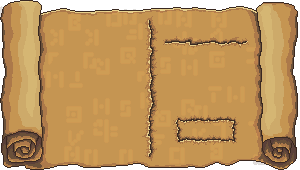
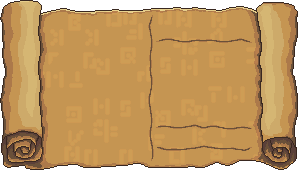
Updated menu images. Implemented dungeon menu prototype. Marked classes as deprecated. Implemented new Text class for GUI.

Changed region(s): [[0.48, 0.0882, 0.84, 0.9412], [0.84, 0.9412, 0.9, 0.9706], [0.0, 0.0294, 0.03, 0.0882]]

diff --git a/Villeon/Villeon/GUI/DungeonMenu.cs b/Villeon/Villeon/GUI/DungeonMenu.cs
@@ -21,10 +21,10 @@ namespace Villeon.GUI
 
             // Load Sprites
             Sprite backgroundScrollSprite = Assets.GetSprite("GUI.Scroll_Dungeonmenu.png", Render.SpriteLayer.ScreenGuiBackground, false);
-            Sprite horizontalLine1Sprite = Assets.GetSprite("GUI.Scroll_Line_Horizontal_1.png", Render.SpriteLayer.ScreenGuiMiddleground, false);
-            Sprite horizontalLine2Sprite = Assets.GetSprite("GUI.Scroll_Line_Horizontal_2.png", Render.SpriteLayer.ScreenGuiMiddleground, false);
-            Sprite horizontalLine3Sprite = Assets.GetSprite("GUI.Scroll_Line_Horizontal_3.png", Render.SpriteLayer.ScreenGuiMiddleground, false);
-            Sprite verticalLineSprite = Assets.GetSprite("GUI.Scroll_Line_Vertical.png", Render.SpriteLayer.ScreenGuiMiddleground, false);
+            Sprite horizontalLine1Sprite = Assets.GetSprite("GUI.Scroll_Horizontal_Line_1.png", Render.SpriteLayer.ScreenGuiMiddleground, false);
+            Sprite horizontalLine2Sprite = Assets.GetSprite("GUI.Scroll_Horizontal_Line_2.png", Render.SpriteLayer.ScreenGuiMiddleground, false);
+            Sprite horizontalLine3Sprite = Assets.GetSprite("GUI.Scroll_Horizontal_Line_3.png", Render.SpriteLayer.ScreenGuiMiddleground, false);
+            Sprite verticalLineSprite = Assets.GetSprite("GUI.Scroll_Vertical_Line_1.png", Render.SpriteLayer.ScreenGuiMiddleground, false);
 
             // Background
             Entity backgroundImage = new Entity(new Transform(new Vector2(-0.755f, -0.6f), 0.04f, 0f), "BackgroundImage");
@@ -32,13 +32,13 @@ namespace Villeon.GUI
             _entities.Add(backgroundImage);
 
             // Horizontal Lines
-            Entity hLine1 = new Entity(new Transform(new Vector2(-0.5f, 0.49f), 0.04f, 0f), "Horizontal Line 1");
+            Entity hLine1 = new Entity(new Transform(new Vector2(-0.5f, 0.53f), 0.04f, 0f), "Horizontal Line 1");
             hLine1.AddComponent(horizontalLine1Sprite);
-            Entity hLine2 = new Entity(new Transform(new Vector2(-0.5f, 0.24f), 0.04f, 0f), "Horizontal Line 2");
+            Entity hLine2 = new Entity(new Transform(new Vector2(-0.5f, 0.30f), 0.04f, 0f), "Horizontal Line 2");
             hLine2.AddComponent(horizontalLine2Sprite);
-            Entity hLine3 = new Entity(new Transform(new Vector2(-0.5f, -0.01f), 0.04f, 0f), "Horizontal Line 3");
+            Entity hLine3 = new Entity(new Transform(new Vector2(-0.5f, 0.07f), 0.04f, 0f), "Horizontal Line 3");
             hLine3.AddComponent(horizontalLine3Sprite);
-            Entity hLine4 = new Entity(new Transform(new Vector2(-0.5f, -0.26f), 0.04f, 0f), "Horizontal Line 4");
+            Entity hLine4 = new Entity(new Transform(new Vector2(-0.5f, -0.16f), 0.04f, 0f), "Horizontal Line 4");
             hLine4.AddComponent(horizontalLine2Sprite);
 
             _entities.Add(hLine1);
@@ -46,19 +46,36 @@ namespace Villeon.GUI
             _entities.Add(hLine3);
             _entities.Add(hLine4);
 
-            // Text
-            float letterSpacing = 1f;
-            float lineSpacing = 2.5f;
-            TextBox caveSelect = new TextBox("Cave", new Vector2(-0.48f, 0.61f), false, true, letterSpacing, lineSpacing, 0.06f);
-            TextBox castleSelect = new TextBox("Castle", new Vector2(-0.48f, 0.36f), false, true, letterSpacing, lineSpacing, 0.06f);
-            TextBox swampSelect = new TextBox("Swamp", new Vector2(-0.48f, 0.12f), false, true, letterSpacing, lineSpacing, 0.06f);
-            TextBox mushroomsSelect = new TextBox("Mushrooms", new Vector2(-0.48f, -0.13f), false, true, letterSpacing, lineSpacing, 0.06f);
+            // Text - Overview
+            Text caveTitle = new Text("Crumbly Cave", new Vector2(-0.48f, 0.61f), 0.9f, 1.1f, 0.04f);
+            Array.ForEach(caveTitle.GetEntities(), entity => _entities.Add(entity));
+            Text darkLair = new Text("Darkend Lair", new Vector2(-0.48f, 0.38f), 0.9f, 1.1f, 0.04f);
+            Array.ForEach(darkLair.GetEntities(), entity => _entities.Add(entity));
+            Text swampyGrot = new Text("Swampy Grot", new Vector2(-0.48f, 0.15f), 0.9f, 1.1f, 0.04f);
+            Array.ForEach(swampyGrot.GetEntities(), entity => _entities.Add(entity));
+            Text hellishHole = new Text("Hellish Hole", new Vector2(-0.48f, -0.08f), 0.8f, 1.1f, 0.04f);
+            Array.ForEach(hellishHole.GetEntities(), entity => _entities.Add(entity));
 
-            // Info
-            TextBox caveText = new TextBox("Cave", new Vector2(0.2f, 0.61f), false, true, letterSpacing, lineSpacing, 0.06f);
-            TextBox caveDescription = new TextBox("A dark and spooky\nCave in the woods.\nYou will probably\nfind some slimes\nin there.", new Vector2(0.05f, 0.4f), false, true, letterSpacing, lineSpacing, 0.04f);
+            // Text - Selection
+            Text caveTitleSelection = new Text("Crumbly Cave", new Vector2(0.05f, 0.61f), 0.9f, 1.1f, 0.04f);
+            Array.ForEach(caveTitleSelection.GetEntities(), entity => _entities.Add(entity));
 
-            TextBox goText = new TextBox("Explore", new Vector2(0.188f, -0.28f), false, true, letterSpacing, lineSpacing, 0.04f);
+            // Text - Description
+            String desciption = "This cave is located in\n" +
+                                "the nearby woods. The\n" +
+                                "entrance is often buried\n" +
+                                "under a pile of gravel.\n" +
+                                "The villagers themselves\n" +
+                                "even dont know where this\n" +
+                                "is coming from. Due to the\n" +
+                                "lack of name ideas - It is\n" +
+                                "now called 'Crumbly Cave'.";
+            Text caveDescription = new Text(desciption, new Vector2(0.05f, 0.4f), 0.9f, 3f, 0.02f, -0.005f);
+            Array.ForEach(caveDescription.GetEntities(), entity => _entities.Add(entity));
+
+            // Text - Explore
+            Text explore = new Text("Go exploring", new Vector2(0.1f, -0.35f), 0.9f, 3f, 0.03f);
+            Array.ForEach(explore.GetEntities(), entity => _entities.Add(entity));
         }
 
         public IEntity[] GetEntities()

diff --git a/Villeon/Villeon/GUI/Text.cs b/Villeon/Villeon/GUI/Text.cs
@@ -7,50 +7,77 @@ using OpenTK.Mathematics;
 using Villeon.Components;
 using Villeon.ECS;
 using Villeon.Helper;
+using Villeon.Render;
 
 namespace Villeon.GUI
 {
     public class Text
     {
-        private static SpriteSheet _fontSheet = Assets.GetSpriteSheet("HenksFont.png");
-        private static Dictionary<IEntity, List<IEntity>> _textEntities = new Dictionary<IEntity, List<IEntity>>();
+        private List<Entity> _letters;
 
-        public static void Write(IEntity entity, string text, Vector2 offset, float scale)
+        // Text settings
+        private string _text;
+        private Vector2 _position;
+        private float _letterSpacing;
+        private float _lineSpacing;
+        private float _letterScale;
+        private float _shadowHeight;
+
+        public Text(string text, Vector2 position, float letterSpacing = 1.1f, float lineSpacing = 1.1f, float letterScale = 1f, float shadowHeight = -0.01f)
         {
-            // Add the entity wich holds the text entities
-            _textEntities.Add(entity, new List<IEntity>());
+            _letters = new List<Entity>();
 
-            // Add each letters to the list
-            Transform transform = entity.GetComponent<Transform>();
-            Vector2 textPosition = transform.Position + offset;
-            foreach (char c in text.ToCharArray())
+            _text = text;
+            _position = position;
+            _letterSpacing = letterSpacing * letterScale;
+            _lineSpacing = lineSpacing * letterScale;
+            _letterScale = letterScale;
+            _shadowHeight = shadowHeight;
+
+            CreateLetters();
+        }
+
+        public Entity[] GetEntities()
+        {
+            return _letters.ToArray();
+        }
+
+        private void CreateLetters()
+        {
+            SpriteSheet fontSheet = Assets.GetSpriteSheet("Fonts.VilleonFont.png");
+            Sprite letterSprite;
+
+            Vector2 letterPosition = _position;
+
+            foreach (char c in _text)
             {
+                // Move to next line '\n'
                 if (c == '\n')
                 {
-                    textPosition.Y += -1.1f * scale;
-                    textPosition.X = 0f;
+                    letterPosition.X = _position.X;
+                    letterPosition.Y -= _lineSpacing;
                     continue;
                 }
 
-                //Transform trans = new Transform(transform.Position, transform.Scale, transform.Degrees);
-                IEntity letter = new Entity(transform, c.ToString());
+                letterSprite = fontSheet.GetSprite(c - ' ', SpriteLayer.ScreenGuiForeground, false);
 
-                letter.AddComponent(_fontSheet.GetSprite(c - ' ', Render.SpriteLayer.Foreground, true));
-                _textEntities[entity].Add(letter);
-                Manager.GetInstance().AddEntity(letter);
+                // Create shadow Entity
+                Entity shadowEntity = new Entity(new Transform(letterPosition + new Vector2(0f, _shadowHeight), _letterScale, 0f), "TBX[" + c + "]");
+                Sprite letterShadowSpriteCopy = new Sprite(letterSprite);
+                letterShadowSpriteCopy.Color = Color4.Black;
+                shadowEntity.AddComponent(letterShadowSpriteCopy);
+                _letters.Add(shadowEntity);
 
-                textPosition.X += 1.1f * scale;
+                // Create Entity for letter
+                Entity letterEntity = new Entity(new Transform(letterPosition, _letterScale, 0f), "TBX[" + c + "]");
+                Sprite letterSpriteCopy = new Sprite(letterSprite);
+                letterSpriteCopy.Color = Color4.White;
+                letterEntity.AddComponent(letterSpriteCopy);
+                _letters.Add(letterEntity);
+
+                // Set position for next letter
+                letterPosition.X += _letterSpacing;
             }
-        }
-
-        public void Overwrite(IEntity entity, string newText)
-        {
-            // Overwrites old text
-        }
-
-        public void Clear(IEntity entity)
-        {
-            // Deletes
         }
     }
 }

diff --git a/Villeon/Villeon/GUI/DeprecatedText.cs b/Villeon/Villeon/GUI/DeprecatedText.cs
@@ -1,0 +1,56 @@
+using System;
+using System.Collections.Generic;
+using System.Linq;
+using System.Text;
+using System.Threading.Tasks;
+using OpenTK.Mathematics;
+using Villeon.Components;
+using Villeon.ECS;
+using Villeon.Helper;
+
+namespace Villeon.GUI
+{
+    public class DeprecatedText
+    {
+        private static SpriteSheet _fontSheet = Assets.GetSpriteSheet("HenksFont.png");
+        private static Dictionary<IEntity, List<IEntity>> _textEntities = new Dictionary<IEntity, List<IEntity>>();
+
+        public static void Write(IEntity entity, string text, Vector2 offset, float scale)
+        {
+            // Add the entity wich holds the text entities
+            _textEntities.Add(entity, new List<IEntity>());
+
+            // Add each letters to the list
+            Transform transform = entity.GetComponent<Transform>();
+            Vector2 textPosition = transform.Position + offset;
+            foreach (char c in text.ToCharArray())
+            {
+                if (c == '\n')
+                {
+                    textPosition.Y += -1.1f * scale;
+                    textPosition.X = 0f;
+                    continue;
+                }
+
+                //Transform trans = new Transform(transform.Position, transform.Scale, transform.Degrees);
+                IEntity letter = new Entity(transform, c.ToString());
+
+                letter.AddComponent(_fontSheet.GetSprite(c - ' ', Render.SpriteLayer.Foreground, true));
+                _textEntities[entity].Add(letter);
+                Manager.GetInstance().AddEntity(letter);
+
+                textPosition.X += 1.1f * scale;
+            }
+        }
+
+        public void Overwrite(IEntity entity, string newText)
+        {
+            // Overwrites old text
+        }
+
+        public void Clear(IEntity entity)
+        {
+            // Deletes
+        }
+    }
+}

diff --git a/Villeon/Villeon/Components/Sprite.cs b/Villeon/Villeon/Components/Sprite.cs
@@ -102,6 +102,26 @@ namespace Villeon.Components
             _height = 1f;
         }
 
+        // Copy constructor
+        public Sprite(Sprite copySprite)
+        {
+            _color = copySprite.Color;
+            _texture2D = copySprite._texture2D;
+            _layer = copySprite._layer;
+            _texCoords = new Vector2[4]
+            {
+                new Vector2(copySprite._texCoords[0].X, copySprite._texCoords[0].Y),
+                new Vector2(copySprite._texCoords[1].X, copySprite._texCoords[1].Y),
+                new Vector2(copySprite._texCoords[2].X, copySprite._texCoords[2].Y),
+                new Vector2(copySprite._texCoords[3].X, copySprite._texCoords[3].Y),
+            };
+            _isDynamic = copySprite._isDynamic;
+            _width = copySprite._width;
+            _height = copySprite._height;
+            _tilePixels = copySprite._tilePixels;
+            _usesCamera = copySprite._usesCamera;
+        }
+
         public Vector2[] TexCoords
         {
             get { return _texCoords; }

diff --git a/Villeon/Villeon/GUI/DeprecatedTextBox.cs b/Villeon/Villeon/GUI/DeprecatedTextBox.cs
@@ -11,7 +11,7 @@ using Villeon.Render;
 
 namespace Villeon.GUI
 {
-    public class TextBox
+    public class DeprecatedTextBox
     {
         private List<IEntity> _letters;
         private IEntity _frame = new Entity("FrameEmpty");
@@ -29,7 +29,7 @@ namespace Villeon.GUI
         private bool _hasBackground;
         private bool _onGUI;
 
-        public TextBox(string text, Vector2 framePosition, bool hasBackground = true, bool onGUI = false, float letterSpacing = 1.1f, float lineSpacing = 1.1f, float letterScale = 1f)
+        public DeprecatedTextBox(string text, Vector2 framePosition, bool hasBackground = true, bool onGUI = false, float letterSpacing = 1.1f, float lineSpacing = 1.1f, float letterScale = 1f)
         {
             _text = text;
             _framePosition = framePosition;
